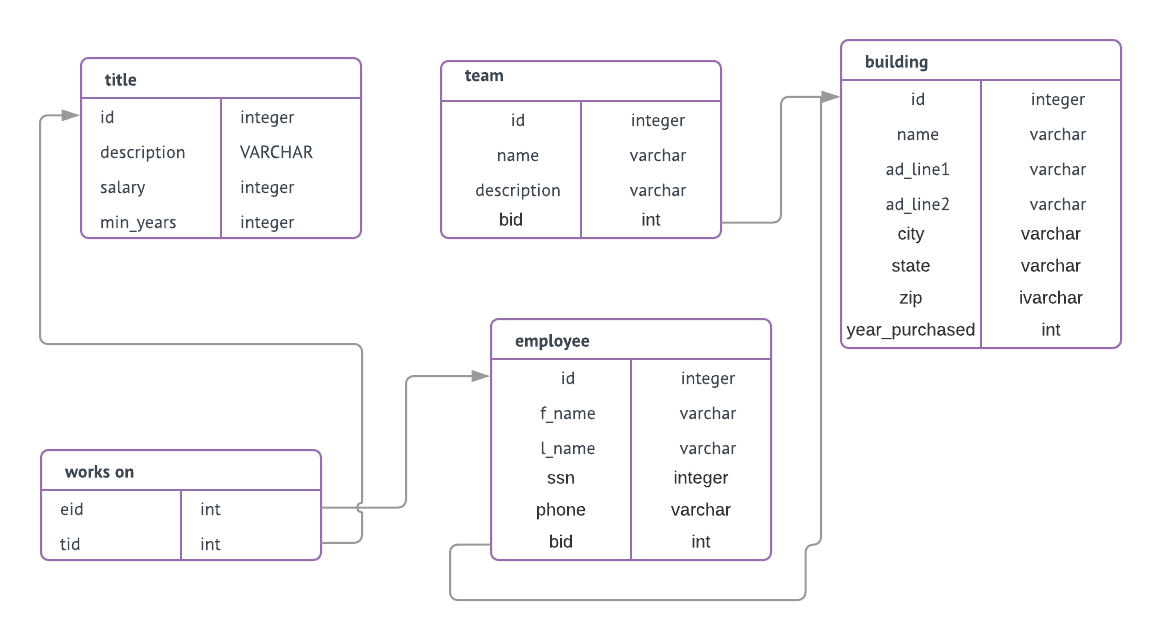
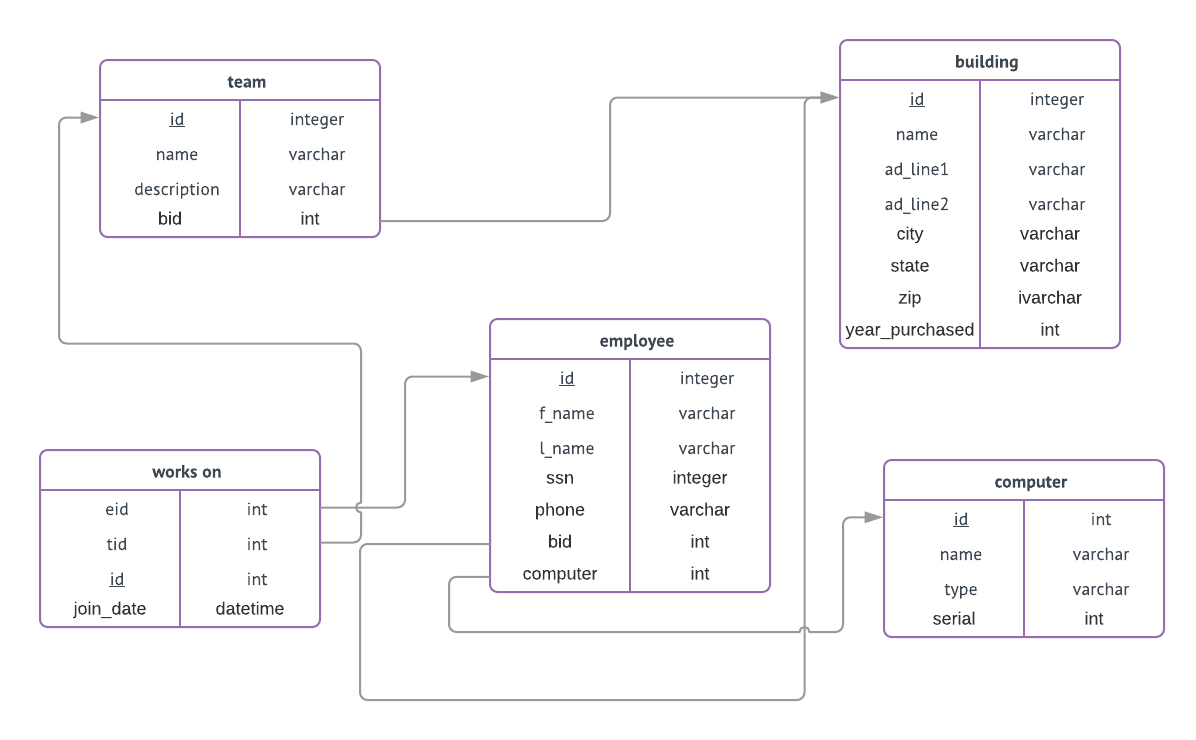
Fixed computer delete

diff --git a/employee.js b/employee.js
@@ -8,7 +8,6 @@ module.exports = function(){
                 res.write(JSON.stringify(error));
                 res.end();
             }
-            results["0"] = "None";
             context.people = results;
             complete();
         });
@@ -21,6 +20,10 @@ module.exports = function(){
                 res.write(JSON.stringify(error));
                 res.end();
             }
+            // results["0"] = "None";
+            results.push({"id": 0, "name": "No Computer"});
+            console.log("The results are");
+            console.log(results);
             context.computers = results;
             complete();
         });

diff --git a/computer.js b/computer.js
@@ -91,6 +91,8 @@ module.exports = function(){
         var sql = "DELETE FROM computer WHERE id = ?";
         var inserts = [req.params.id];
         console.log("Got into router delete for computers!");
+        console.log(inserts);
+        console.log("That was inserts!");
         sql = mysql.pool.query(sql, inserts, function(error, results, fields){
             if(error){
                 res.write(JSON.stringify(error));

diff --git a/CraigRickerFinal.md b/CraigRickerFinal.md
@@ -5,6 +5,8 @@ My final project is different than my proposed project in order to reudce the nu
 
 I will model a very simple company. The company is made up of a collection of buildings, computers, employees, and teams.
 
+## Database Outline
+
 Employees can have a phone number, can have a computer, must havea first/last name/SSN, and they must work in a single building.
 
 Computers must have a name, can have a type description, and can have a serial number. Multiple people can use the same computer.
@@ -27,6 +29,13 @@ CREATE TABLE computer (
     type VARCHAR(255),
     serial INT
 ) ENGINE=InnoDB DEFAULT CHARSET=utf8;
+
+CREATE TABLE title (
+  id INT NOT NULL AUTO_INCREMENT PRIMARY KEY,
+  description VARCHAR(255) NOT NULL,
+  salary INT NOT NULL,
+  min_years INT
+)ENGINE=InnoDB DEFAULT CHARSET=utf8;
 
 CREATE TABLE building (
   id INT NOT NULL AUTO_INCREMENT PRIMARY KEY,
@@ -56,8 +65,8 @@ CREATE TABLE employee (
   phone VARCHAR(255),
   bid INT NOT NULL,
   computer INT,
-  FOREIGN KEY (computer) REFERENCES computer (id),
-  FOREIGN KEY (bid) REFERENCES building (id) ON DELETE RESTRICT ON UPDATE CASCADE,
+  FOREIGN KEY (computer) REFERENCES computer (id) ON DELETE SET NULL,
+  FOREIGN KEY (bid) REFERENCES building (id) ON DELETE RESTRICT ON UPDATE CASCADE
 ) ENGINE=InnoDB DEFAULT CHARSET=utf8;
 
 CREATE TABLE works_on (
@@ -69,6 +78,8 @@ CREATE TABLE works_on (
   FOREIGN KEY (eid) REFERENCES employee (id) ON DELETE RESTRICT ON UPDATE CASCADE,
   FOREIGN KEY (tid) REFERENCES team (id) ON DELETE RESTRICT ON UPDATE CASCADE
 ) ENGINE=InnoDB DEFAULT CHARSET=utf8;
+
+
 ```
   
 
@@ -100,12 +111,8 @@ SELECT * FROM building WHERE year_purchased > [yearInput]
 ```
 
 
-
-\
-
-
 ## Project link
-My final project can be found at this link.
+My final project can be found at [this link.](http://flip3.engr.oregonstate.edu:5416)
 
 ## Thank you
 I wanted to thank botht the professor, and all the hard working TA's. I think it is important to acknolwedge that the skeleton of this project was forked from the [Professor's example code](https://github.com/wolfordj/CS340-Sample-Web-App).
